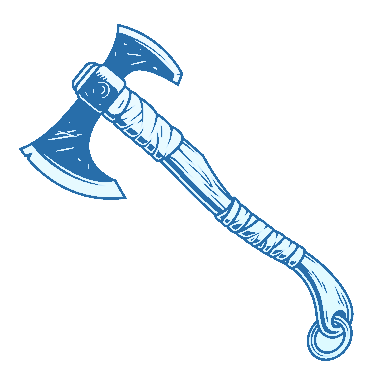
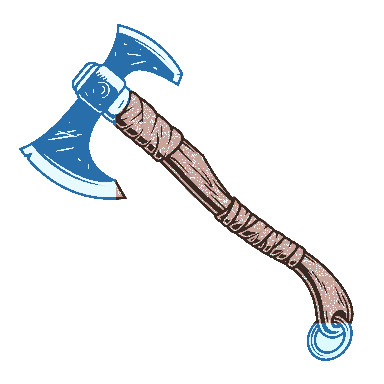
Desierto con profundidad, viento de verdad, guitarra y hacha que se congela
- Desierto: cinco capas de dunas (las lejanas mas claras y brumosas), crestas iluminadas, ondas de viento y pasto seco; aves a lo lejos de dia.
- Paralaje: cada capa se mueve distinto con el cursor y al bajar, solo con transform (ligero para celular).
- Viento: rafagas que levantan arena desde las dunas; los granos brincan y los cercanos son mas grandes y rapidos; estelas de arena en las rafagas.
- Sin emojis en el cielo: corazones dibujados en San Valentin y murcielagos con silueta en Halloween.
- Guitarra mas realista (uña, cuerda y caja de madera) para el requinto, el vals de Muertos y los rasgueos.
- Hacha: al congelarse solo la hoja se vuelve hielo y el mango se cubre de escarcha.

Changed region(s): [[0.2812, 0.2188, 0.9375, 0.8438], [0.2812, 0.4688, 0.3438, 0.5312]]

diff --git a/js/cielo.js b/js/cielo.js
@@ -252,16 +252,22 @@
     for (var i = 0; i < (n || 40); i++) agregar({ f: 1, t: 'emoji', x: azar(0, W), y: azar(-H * .6, -10), vx: azar(-.5, .5), vy: azar(1.5, 3.5), rot: azar(0, 6), e: emojis[i % emojis.length], s: azar(16, 30), vida: 400 });
   };
 
+  var viento = { fuerza: 1, meta: 1, hasta: 0 };
   function generar() {
     var dia = C.modo === 'dia';
-    if (dia && Math.random() < .35 * F) agregar({ t: 'arena', x: -5, y: azar(H * .45, H), vx: azar(1, 3), vy: azar(-.2, .2), vida: 900, r: azar(.6, 1.6) });
+    // El viento sopla en ráfagas: casi siempre suave y, cada tantos segundos, una ráfaga fuerte que levanta arena
+    var ahoraV = performance.now();
+    if (ahoraV > viento.hasta) { viento.meta = viento.meta > 1.2 ? 1 : 2.6 + Math.random() * 1.2; viento.hasta = ahoraV + (viento.meta > 1.2 ? 2200 + Math.random() * 1400 : 8000 + Math.random() * 7000); }
+    viento.fuerza += (viento.meta - viento.fuerza) * .03; C.rafaga = viento.fuerza;
+    // Granos de arena que salen de las dunas: los de cerca (abajo) más grandes y rápidos; los de lejos, finitos y lentos
+    if (Math.random() < (dia ? .5 : .22) * F * viento.fuerza) { var prof = Math.random(); agregar({ t: 'arena', x: -6, y: H * (.68 + prof * .3), vx: (.8 + prof * 2.4) * viento.fuerza + azar(0, .5), vy: 0, fase: azar(0, 6.28), vida: 1100, r: .45 + prof * 1.25, a: .22 + prof * .45 }); }
+    if (viento.fuerza > 1.6 && Math.random() < .22 * F) agregar({ t: 'estela', x: -80, y: H * (.72 + Math.random() * .24), vx: azar(10, 15), vy: 0, vida: 240, largo: azar(50, 130) });
     if (C.clima === 'arena') for (var i = 0; i < 7 * F; i++) agregar({ t: 'arena', x: azar(-50, W * .3), y: azar(0, H), vx: azar(7, 16), vy: azar(-.6, .8), vida: 300, r: azar(.6, 2.2) });
     if (C.clima === 'lluvia' || C.clima === 'tormenta') for (var j = 0; j < 5; j++) agregar({ t: 'gota', x: azar(0, W + 100), y: -20, vx: -2, vy: azar(12, 18), vida: 200 });
     if (C.fiesta === 'navidad' && Math.random() < .8) agregar({ t: 'copo', x: azar(0, W), y: -6, vx: azar(-.4, .4), vy: azar(.6, 1.6), vida: 1500, r: azar(1, 3) });
     var pico = C.pico ? 2.2 : 1;   // en el gran día, todo se multiplica
     if (C.fiesta === 'muertos' && Math.random() < .12 * pico * F) agregar({ t: 'petalo', x: azar(0, W), y: -10, vx: azar(-.6, .6), vy: azar(.6, 1.4), rot: azar(0, 6), vida: 1500, c: Math.random() < .8 ? '#ff9f1c' : '#c2185b' });
-    if (C.halloween && C.modo === 'noche' && Math.random() < .006 * pico) agregar({ t: 'emoji', x: -20, y: azar(H * .1, H * .45), vx: azar(2, 4), vy: azar(-.6, .6), rot: 0, e: '🦇', s: 22, vida: 900 });
-    if (C.fiesta === 'sanvalentin' && Math.random() < .05 * pico) agregar({ t: 'emoji', x: azar(0, W), y: H + 20, vx: azar(-.3, .3), vy: azar(-1.4, -.7), rot: 0, e: '💗', s: azar(14, 24), vida: 900 });
+    if (C.fiesta === 'sanvalentin' && Math.random() < .05 * pico) agregar({ t: 'corazon', x: azar(0, W), y: H + 20, vx: azar(-.3, .3), vy: azar(-1.4, -.7), rot: azar(0, 6), vida: 900, s: azar(.8, 1.6) });
     if ((C.fiesta === 'feria' || C.fiesta === 'patrias') && Math.random() < .2 * pico * F) {
       var cols = C.fiesta === 'patrias' ? ['#0b8a3e', '#ffffff', '#ce1126'] : ['#e91e63', '#ffc107', '#00bcd4', '#8bc34a', '#ff5722'];
       agregar({ t: 'confeti', x: azar(0, W), y: -10, vx: azar(-.8, .8), vy: azar(1, 2.2), rot: azar(0, 6), vida: 1200, c: cols[Math.floor(Math.random() * cols.length)] });
@@ -323,7 +329,9 @@
       var g = a.f ? fx : ctx;   // los efectos de los dioses van al frente de todo; el clima, al fondo
       g.globalAlpha = (a.t === 'chispa' || a.t === 'brasa') ? Math.min(1, a.vida / 40) : (a.t === 'emoji' && a.vida < 40 ? a.vida / 40 : 1);
       if (a.t === 'brasa') { g.fillStyle = a.c; g.globalAlpha *= .25; g.beginPath(); g.arc(a.x, a.y, a.r * 3, 0, 6.28); g.fill(); g.globalAlpha *= 4; g.beginPath(); g.arc(a.x, a.y, a.r, 0, 6.28); g.fill(); continue; }
-      if (a.t === 'arena') { g.fillStyle = dia ? 'rgba(120,70,30,.55)' : 'rgba(200,180,150,.35)'; g.fillRect(a.x, a.y, a.r * 2.4, a.r); }
+      if (a.t === 'arena') { var brinco = a.fase !== undefined ? -Math.abs(Math.sin(a.fase + a.x / 26)) * a.r * 3 : 0; g.globalAlpha = (a.a || .5) * Math.min(1, a.vida / 60); g.fillStyle = dia ? '#8e5a2c' : '#d8c8aa'; g.beginPath(); g.arc(a.x, a.y + brinco, a.r, 0, 6.28); g.fill(); }
+      else if (a.t === 'estela') { g.globalAlpha = Math.min(1, a.vida / 60) * (dia ? .2 : .1); g.strokeStyle = dia ? '#a0683a' : '#e6dcc8'; g.lineWidth = 1.2; g.beginPath(); g.moveTo(a.x, a.y); g.quadraticCurveTo(a.x - a.largo * .5, a.y - 3, a.x - a.largo, a.y + 1); g.stroke(); }
+      else if (a.t === 'corazon') { g.save(); g.translate(a.x + Math.sin(a.y / 50) * 12, a.y); g.rotate(Math.sin(a.rot) * .35); g.scale(a.s, a.s); g.globalAlpha = Math.min(1, a.vida / 80) * .85; g.fillStyle = '#ff5c8a'; g.beginPath(); g.moveTo(0, 4); g.bezierCurveTo(-9, -3, -5, -11, 0, -5); g.bezierCurveTo(5, -11, 9, -3, 0, 4); g.fill(); g.restore(); }
       else if (a.t === 'gota') { g.strokeStyle = 'rgba(180,200,230,.6)'; g.lineWidth = 1; g.beginPath(); g.moveTo(a.x, a.y); g.lineTo(a.x + a.vx, a.y + 10); g.stroke(); }
       else if (a.t === 'copo') { g.fillStyle = 'rgba(255,255,255,.85)'; g.beginPath(); g.arc(a.x + Math.sin(a.y / 30) * 6, a.y, a.r, 0, 6.28); g.fill(); }
       else if (a.t === 'chispa') { g.fillStyle = a.c; g.fillRect(a.x, a.y, a.tam || 2.4, a.tam || 2.4); }
@@ -410,6 +418,24 @@
     document.addEventListener('click', function (e) { if (!letrero.contains(e.target)) { letrero.classList.remove('abierto'); abrirLista(false); } });
     if (window.Idioma && Idioma.aplicar) Idioma.aplicar();
     document.documentElement.classList.add('con-previa');
+  }
+
+  // ---------- Profundidad: el desierto como una ventana ----------
+  // Cada capa se mueve distinto con el cursor y al bajar la página: lo lejano casi no se mueve, lo cercano sí.
+  // Solo se usan transform (el navegador mueve las capas sin repintarlas), así el celular no se traba.
+  var LISTA_P = [['.p-montes', .12], ['.p-lejos', .25], ['.p-medio', .45], ['.p-cerca', .7], ['.p-frente', 1], ['#escenaFiesta', .55], ['#astros', .06]], capasP = [];
+  var buscarCapas = function () { capasP = LISTA_P.map(function (c) { return [document.querySelector(c[0]), c[1]]; }).filter(function (c) { return c[0]; }); };   // la escena de fiestas se crea después
+  if (document.getElementById('paisaje') && !calma) {
+    var px = 0, py = 0, mx = 0, my = 0, pendiente = false;
+    var mover = function () {
+      pendiente = false; if (capasP.length < LISTA_P.length) buscarCapas(); px += (mx - px) * .08; py += (my - py) * .08;
+      var bajada = Math.min(scrollY, innerHeight);
+      capasP.forEach(function (c) { c[0].style.transform = 'translate3d(' + (-px * 18 * c[1]).toFixed(2) + 'px,' + (-py * 8 * c[1] + bajada * .06 * c[1]).toFixed(2) + 'px,0)'; });
+      if (Math.abs(mx - px) > .002 || Math.abs(my - py) > .002) pedir();
+    };
+    var pedir = function () { if (!pendiente) { pendiente = true; requestAnimationFrame(mover); } };
+    if (matchMedia('(hover: hover)').matches) addEventListener('pointermove', function (e) { mx = e.clientX / innerWidth - .5; my = e.clientY / innerHeight - .5; pedir(); }, { passive: true });
+    addEventListener('scroll', pedir, { passive: true }); pedir();
   }
 
   // En celular el aviso sale abajo… salvo cuando los botones de "Ver mis trabajos" y "Platiquemos"

diff --git a/js/sonido.js b/js/sonido.js
@@ -64,10 +64,34 @@
       [698, 1], [698, 1], [698, 1.5], [698, .5], [698, 1], [659, 1], [659, 1], [659, .5], [659, .5], [659, 1], [587, 1], [587, 1], [659, 1], [587, 2], [784, 2]];
     notas.slice(0, cuantas || notas.length).forEach(function (n) { campanita(n[0], .075, t + .05); t += n[1] * q; });
   }
+  // Guitarra de verdad (para el requinto, el vals y los rasgueos): la uña ataca la cuerda (golpecito de ruido),
+  // la cuerda vibra con su "posición de pulsado" (filtro de peine) y se apaga como una cuerda real; la caja de madera
+  // le da cuerpo (resonancias graves de 100 y 210 Hz) y se le quita el brillo metálico de arriba.
+  function guitarra(f, vol, retraso) {
+    var clave = 'gt' + Math.round(f), buf = cuerdas[clave];
+    if (!buf) {
+      var sr = ctx.sampleRate, n = Math.floor(sr * 1.7), per = Math.max(2, Math.round(sr / f)), linea = new Float32Array(per), prev = 0;
+      for (var i = 0; i < per; i++) { var r = Math.random() * 2 - 1; prev = prev * .45 + r * .55; linea[i] = prev; }   // ruido suavizado: uña, no púa
+      var corte = Math.max(1, Math.round(per * .13)), exc = Float32Array.from(linea);
+      for (var i2 = 0; i2 < per; i2++) linea[i2] = exc[i2] - exc[(i2 + corte) % per] * .9;                          // pulsada cerca del puente
+      buf = ctx.createBuffer(1, n, sr); var d = buf.getChannelData(0), p = 0;
+      for (var j = 0; j < n; j++) { var sig = (p + 1) % per; var v = (linea[p] * .5 + linea[sig] * .5) * .9935; d[j] = linea[p]; linea[p] = v; p = sig; }
+      cuerdas[clave] = buf;
+    }
+    var t = ctx.currentTime + (retraso || 0), s = ctx.createBufferSource(), g = ctx.createGain();
+    var c1 = ctx.createBiquadFilter(), c2 = ctx.createBiquadFilter(), c3 = ctx.createBiquadFilter(), lp = ctx.createBiquadFilter();
+    c1.type = 'peaking'; c1.frequency.value = 100; c1.Q.value = 1; c1.gain.value = 6;
+    c2.type = 'peaking'; c2.frequency.value = 210; c2.Q.value = 1.3; c2.gain.value = 5;
+    c3.type = 'peaking'; c3.frequency.value = 2600; c3.Q.value = 1; c3.gain.value = 2.5;
+    lp.type = 'lowpass'; lp.frequency.value = 4200; lp.Q.value = .5;
+    s.buffer = buf; g.gain.setValueAtTime(vol, t); g.gain.setTargetAtTime(.0001, t + .9, .35);
+    s.connect(c1); c1.connect(c2); c2.connect(c3); c3.connect(lp); lp.connect(g); salida(g); s.start(t); s.stop(t + 1.75);
+    siseo(3200, 2000, vol * .07, .02, retraso || 0, 1.2, .001);   // el toque de la uña
+  }
   // Rasgueo de guitarra: las cuerdas suenan una tras otra, muy rápido, como con la mano
   function rasgueo(notas, vol, retraso, haciaArriba) {
     var orden = haciaArriba ? notas.slice().reverse() : notas;
-    orden.forEach(function (f, i) { cuerda(f, vol * (1 - i * .08), retraso + i * .014, .45); });
+    orden.forEach(function (f, i) { guitarra(f, vol * (1 - i * .08) * 1.3, retraso + i * .016); });
   }
   // Órgano de carrusel: tubos (fundamental, octava y quinta) un poquito desafinados entre sí, que "laten" como los de verdad
   function organo(f, vol, dura, retraso) {
@@ -243,8 +267,8 @@
     // Día de Muertos: un vals en La menor con guitarra (bajo + rasgueo) y una melodía de requinto; al final, una campana lejana
     muertos: function () {
       var q = .32, A = [N.A3, N.C4, N.E4], Dm = [N.D4, N.F4, N.A4], E = [N.Gs3, N.B3, N.E4], bajos = [N.A2, N.D3, N.E2, N.A2], acordes = [A, Dm, E, A];
-      for (var c = 0; c < 4; c++) { var r = c * 3 * q; cuerda(bajos[c], .55, r, .3); rasgueo(acordes[c], .22, r + q); rasgueo(acordes[c], .18, r + 2 * q, true); }
-      tocar([[N.E5, 1], [N.A4, 1], [N.C5, 1], [N.D5, 1.5], [N.C5, .5], [N.A4, 1], [N.B4, 1], [N.Gs4, 1], [N.B4, 1], [N.A4, 3]], q, function (f, d, t) { cuerda(f, .42, t, .75); });
+      for (var c = 0; c < 4; c++) { var r = c * 3 * q; guitarra(bajos[c], .65, r); rasgueo(acordes[c], .22, r + q); rasgueo(acordes[c], .18, r + 2 * q, true); }
+      tocar([[N.E5, 1], [N.A4, 1], [N.C5, 1], [N.D5, 1.5], [N.C5, .5], [N.A4, 1], [N.B4, 1], [N.Gs4, 1], [N.B4, 1], [N.A4, 3]], q, function (f, d, t) { guitarra(f, .5, t); });
       campana(N.A4, .1, 3.5, 12 * q);
     },
     // Feria: el vals del carrusel, con órgano de tubos, "um-pa-pa" en el bajo y la melodía arriba
@@ -281,13 +305,13 @@
       var requinto = function (vol) { return function (f, d, t) {
         // cuerda pulsada sobre caja de madera (como guitarra); solo las notas largas llevan trémolo
         var veces = d >= 3 * q ? Math.round(d / (q / 2)) : 1;
-        for (var k = 0; k < veces; k++) lira(f, vol * (k ? .65 : 1), t + k * (d / veces));
+        for (var k = 0; k < veces; k++) guitarra(f, vol * (k ? .65 : 1), t + k * (d / veces));
       }; };
       tocar(t1, q, requinto(.5)); tocar(t2, q, requinto(.3));
       // Guitarrón y vihuela: "um-pa" en Do y en Sol, como lleva el son
       var C = [N.C4, N.E4, N.G4], G = [N.B3, N.D4, N.G4];
-      for (var b = 0; b < 8; b++) { var ac = b < 4 ? C : G, raiz = b < 4 ? N.C3 : N.G2, r = b * 4 * q; cuerda(raiz, .6, r, .25); rasgueo(ac, .18, r + 2 * q); }
-      cuerda(N.C3, .6, 32 * q, .25); rasgueo(C, .2, 32 * q);
+      for (var b = 0; b < 8; b++) { var ac = b < 4 ? C : G, raiz = b < 4 ? N.C3 : N.G2, r = b * 4 * q; guitarra(raiz, .7, r); rasgueo(ac, .18, r + 2 * q); }
+      guitarra(N.C3, .7, 32 * q); rasgueo(C, .2, 32 * q);
     },
     // Reyes: "Noche de paz" (de 1818, dominio público) con campanitas, y una campana grave al empezar
     reyes: function () {

diff --git a/css/estilo.css b/css/estilo.css
@@ -49,10 +49,10 @@ body.atardecer #sol { transform: translateY(42vh); box-shadow: 0 0 80px 30px rgb
 .astro.arriba { transform: translateY(-48vh) !important; pointer-events: none; }
 .dunas { position: absolute; left: 0; bottom: 0; width: 100%; height: 34vh; }
 .dunas path { transition: fill 2.6s ease-in-out; }
-.d1 { fill: #12151f; } .d2 { fill: #0d1018; } .d3 { fill: #080a10; }
-body[data-fase="dia"] .d1 { fill: #e0a868; } body[data-fase="dia"] .d2 { fill: #c98a4f; } body[data-fase="dia"] .d3 { fill: #a96d3b; }
-body[data-fase="amanecer"] .d1 { fill: #b0788a; } body[data-fase="amanecer"] .d2 { fill: #8a5a72; } body[data-fase="amanecer"] .d3 { fill: #5e3d55; }
-body[data-fase="atardecer"] .d1 { fill: #3a1f33; } body[data-fase="atardecer"] .d2 { fill: #26152a; } body[data-fase="atardecer"] .d3 { fill: #160c1a; }
+/* (los colores de las dunas ahora viven en las variables del paisaje, al final del archivo) */
+
+
+
 #neblina { position: absolute; inset: 0; background: transparent; transition: background 2s; pointer-events: none; }
 body.arena #neblina { background: rgba(214,160,96,.42); }
 body.noche.arena #neblina { background: rgba(60,48,40,.45); }
@@ -653,3 +653,33 @@ body.noche .bandera-dunas { filter: saturate(.7) brightness(.55); }
 .acc-patrias { margin-top: -8px !important; }
 .secreto img { width: 1.7em; height: 1.7em; display: block; }
 #escudo svg { overflow: visible; }
+
+/* ===== Paisaje con profundidad: una ventana al mundo griego =====
+   Mientras más lejos, más claro y más brumoso (perspectiva del aire). Cada capa es su propia "hoja" que el navegador
+   solo mueve (transform), así el paralaje no traba el celular. */
+body { --montes: #1c2233; --nieve: #3a4358; --templo: #141927; --d1: #151a27; --d2: #10141f; --d3: #0b0e17; --d4: #07090f; --cresta: rgba(170,190,255,.10); --ondas: rgba(170,190,255,.07); --arbol: #0a0d14; --fuego: 1; }
+body[data-fase="dia"] { --montes: #e9c9a0; --nieve: #fbf1e2; --templo: #d9b48a; --d1: #e4b07c; --d2: #d69c62; --d3: #c4844b; --d4: #ab6b36; --cresta: rgba(255,244,214,.28); --ondas: rgba(120,64,24,.16); --arbol: #6e5a2c; --fuego: 0; }
+body[data-fase="amanecer"] { --montes: #c9a0b0; --nieve: #f1dce6; --templo: #b38898; --d1: #b27d8e; --d2: #9a6479; --d3: #7d4f65; --d4: #5e3c54; --cresta: rgba(255,214,226,.35); --ondas: rgba(60,20,40,.18); --arbol: #4a2c40; --fuego: .5; }
+body[data-fase="atardecer"] { --montes: #5a3049; --nieve: #8a5a72; --templo: #4a2640; --d1: #3d2136; --d2: #2d182c; --d3: #201221; --d4: #150b17; --cresta: rgba(255,170,120,.22); --ondas: rgba(255,170,120,.08); --arbol: #120a12; --fuego: .8; }
+#paisaje { position: absolute; inset: 0; pointer-events: none; }
+#paisaje .capa-p { position: absolute; left: -3%; width: 106%; bottom: 0; height: 34vh; display: block; will-change: transform; }
+#paisaje .p-montes { height: 40vh; opacity: .9; }
+#paisaje path, #paisaje rect, #paisaje circle { transition: fill 2.6s ease-in-out, stroke 2.6s ease-in-out; }
+#paisaje .m1 { fill: var(--montes); } #paisaje .nieve { fill: var(--nieve); opacity: .8; }
+#paisaje .templo path, #paisaje .templo rect { fill: var(--templo); }
+#paisaje .fuego-templo { fill: #ffb347; opacity: calc(var(--fuego) * .9); filter: blur(1.2px); animation: fuegoTemplo 1.6s ease-in-out infinite alternate; transform-box: fill-box; transform-origin: center; }
+@keyframes fuegoTemplo { to { opacity: calc(var(--fuego) * .45); transform: scale(.75); } }
+#paisaje .d1 { fill: var(--d1); } #paisaje .d2 { fill: var(--d2); } #paisaje .d3 { fill: var(--d3); } #paisaje .d4 { fill: var(--d4); }
+#paisaje .cresta { fill: none; stroke: var(--cresta); stroke-width: 1.6; vector-effect: non-scaling-stroke; }
+#paisaje .p-montes .cresta { opacity: .5; }
+#paisaje .ondas { fill: none; stroke: var(--ondas); stroke-width: 1.4; stroke-linecap: round; vector-effect: non-scaling-stroke; }
+#paisaje .pasto { fill: none; stroke: var(--arbol); stroke-width: 2; stroke-linecap: round; vector-effect: non-scaling-stroke; }
+#paisaje .cipres { fill: var(--arbol); transform-box: fill-box; transform-origin: 50% 100%; animation: cipres 6s ease-in-out infinite alternate; }
+#paisaje .c2 { animation-delay: -2s; } #paisaje .c3 { animation-delay: -4s; }
+@keyframes cipres { to { transform: rotate(1.6deg); } }
+/* Aves a lo lejos, de día */
+#paisaje .aves { position: absolute; top: 18vh; left: -12vw; width: clamp(60px, 7vw, 110px); opacity: 0; }
+#paisaje .aves svg { width: 100%; display: block; } #paisaje .aves path { fill: none; stroke: #5a4632; stroke-width: 2.4; stroke-linecap: round; }
+body[data-fase="dia"] #paisaje .aves, body[data-fase="amanecer"] #paisaje .aves { opacity: .55; animation: aves 46s linear infinite; }
+@keyframes aves { from { transform: translate(0, 0); } 50% { transform: translate(60vw, -4vh); } to { transform: translate(125vw, 2vh); } }
+@media (prefers-reduced-motion: reduce) { #paisaje .cipres, #paisaje .aves, #paisaje .fuego-templo { animation: none; } }

diff --git a/index.html b/index.html
@@ -19,7 +19,7 @@
 <link rel="preconnect" href="https://fonts.googleapis.com">
 <link rel="preconnect" href="https://fonts.gstatic.com" crossorigin>
 <link href="https://fonts.googleapis.com/css2?family=Cinzel:wght@500;700&family=Inter:wght@400;500;600&display=swap" rel="stylesheet">
-<link rel="stylesheet" href="css/estilo.css?v=20261105e">
+<link rel="stylesheet" href="css/estilo.css?v=20261105h">
 </head>
 <body class="noche">
 <svg width="0" height="0" style="position:absolute" aria-hidden="true">
@@ -52,11 +52,34 @@
   <div class="nube" style="top:10vh;animation-delay:-10s"></div>
   <div class="nube" style="top:22vh;animation-delay:-45s;transform:scale(.7)"></div>
   <canvas id="particulas"></canvas>
-  <svg class="dunas" viewBox="0 0 1440 320" preserveAspectRatio="none">
-    <path class="d1" d="M0 170 C 220 90 420 120 620 170 S 1000 110 1200 140 1440 120 1440 120 V320 H0Z"/>
-    <path class="d2" d="M0 220 C 260 160 460 250 720 210 S 1150 170 1440 215 V320 H0Z"/>
-    <path class="d3" d="M0 280 C 300 240 520 300 860 270 S 1250 250 1440 275 V320 H0Z"/>
-  </svg>
+  <div id="paisaje">
+    <!-- Una ventana al desierto del Olimpo: cinco capas de dunas, de las más lejanas (claras y brumosas) a las de enfrente, y aves.
+         Cada capa se mueve distinto con el cursor y al bajar (paralaje), para que se sienta la profundidad. -->
+    <svg class="capa-p p-montes" viewBox="0 0 1440 320" preserveAspectRatio="none">
+      <path class="m1" d="M0 150 C 160 118 300 132 460 150 S 760 112 940 128 S 1240 120 1440 136 V320 H0Z"/>
+      <path class="cresta" d="M0 150 C 160 118 300 132 460 150 S 760 112 940 128 S 1240 120 1440 136"/>
+    </svg>
+    <svg class="capa-p p-lejos dunas" viewBox="0 0 1440 320" preserveAspectRatio="none">
+      <path class="d1" d="M0 170 C 220 90 420 120 620 170 S 1000 110 1200 140 1440 120 1440 120 V320 H0Z"/>
+      <path class="cresta" d="M0 170 C 220 90 420 120 620 170 S 1000 110 1200 140 1440 120 1440 120"/>
+    </svg>
+    <svg class="capa-p p-medio" viewBox="0 0 1440 320" preserveAspectRatio="none">
+      
+      <path class="d2" d="M0 212 C 200 170 380 222 560 200 S 900 160 1120 190 1440 200 1440 200 V320 H0Z"/>
+      <path class="cresta" d="M0 212 C 200 170 380 222 560 200 S 900 160 1120 190 1440 200 1440 200"/>
+    </svg>
+    <svg class="capa-p p-cerca" viewBox="0 0 1440 320" preserveAspectRatio="none">
+      <path class="d3" d="M0 250 C 260 200 460 270 720 236 S 1150 206 1440 244 V320 H0Z"/>
+      <path class="cresta" d="M0 250 C 260 200 460 270 720 236 S 1150 206 1440 244"/>
+      <path class="ondas" d="M120 268 Q220 258 320 266 M480 262 Q600 250 720 258 M900 250 Q1020 240 1140 250 M1200 266 Q1300 258 1400 264 M260 290 Q380 280 500 288 M800 284 Q940 274 1080 282"/>
+    </svg>
+    <svg class="capa-p p-frente" viewBox="0 0 1440 320" preserveAspectRatio="none">
+      <path class="d4" d="M0 290 C 300 262 540 304 880 282 S 1260 270 1440 288 V320 H0Z"/>
+      <path class="cresta" d="M0 290 C 300 262 540 304 880 282 S 1260 270 1440 288"/>
+      <path class="pasto" d="M40 292 l-6 -18 M46 292 l2 -22 M52 292 l8 -16 M1380 288 l-7 -17 M1387 288 l1 -21 M1393 288 l8 -15"/>
+    </svg>
+    <div class="aves"><svg viewBox="0 0 120 40"><path d="M0 14 q8 -8 16 0 q8 -8 16 0 M40 6 q6 -6 12 0 q6 -6 12 0 M70 22 q7 -7 14 0 q7 -7 14 0"/></svg></div>
+  </div>
   <div id="neblina"></div>
 </div>
 <div id="astros"><button id="sol" class="astro" type="button" aria-label="El sol"></button><button id="luna" class="astro" type="button" aria-label="La luna"></button></div>
@@ -263,11 +286,11 @@
   </div>
 </div>
 
-<script src="js/idioma.js?v=20261105e"></script>
-<script src="js/sonido.js?v=20261105e"></script>
-<script src="js/cielo.js?v=20261105e"></script>
-<script src="js/panteon.js?v=20261105e"></script>
-<script src="js/fiestas.js?v=20261105e"></script>
-<script src="js/detalles.js?v=20261105e"></script>
+<script src="js/idioma.js?v=20261105h"></script>
+<script src="js/sonido.js?v=20261105h"></script>
+<script src="js/cielo.js?v=20261105h"></script>
+<script src="js/panteon.js?v=20261105h"></script>
+<script src="js/fiestas.js?v=20261105h"></script>
+<script src="js/detalles.js?v=20261105h"></script>
 </body>
 </html>

diff --git a/js/fiestas.js b/js/fiestas.js
@@ -58,6 +58,8 @@
     logo.appendChild(b);
   }
   if (logo && ACC[f]) { ponerAccesorio(f); if (C.halloween) ponerAccesorio('halloween'); }
+  // En Halloween, de noche, de vez en cuando cruzan murciélagos (con silueta y aleteo, no emojis)
+  if (C.halloween) { setTimeout(function () { if (C.modo !== 'dia') soltarMurcielagos(3); }, 4000); setInterval(function () { if (C.modo !== 'dia') soltarMurcielagos(3); }, 30000); }
   // El gorro de Navidad se acomoda en la O final de "Olimpo" (se mide la palabra real, en cualquier pantalla)
   var gorro = $('.acc-navidad'), palabra = $('#irInicio');
   function acomodarGorro() {
